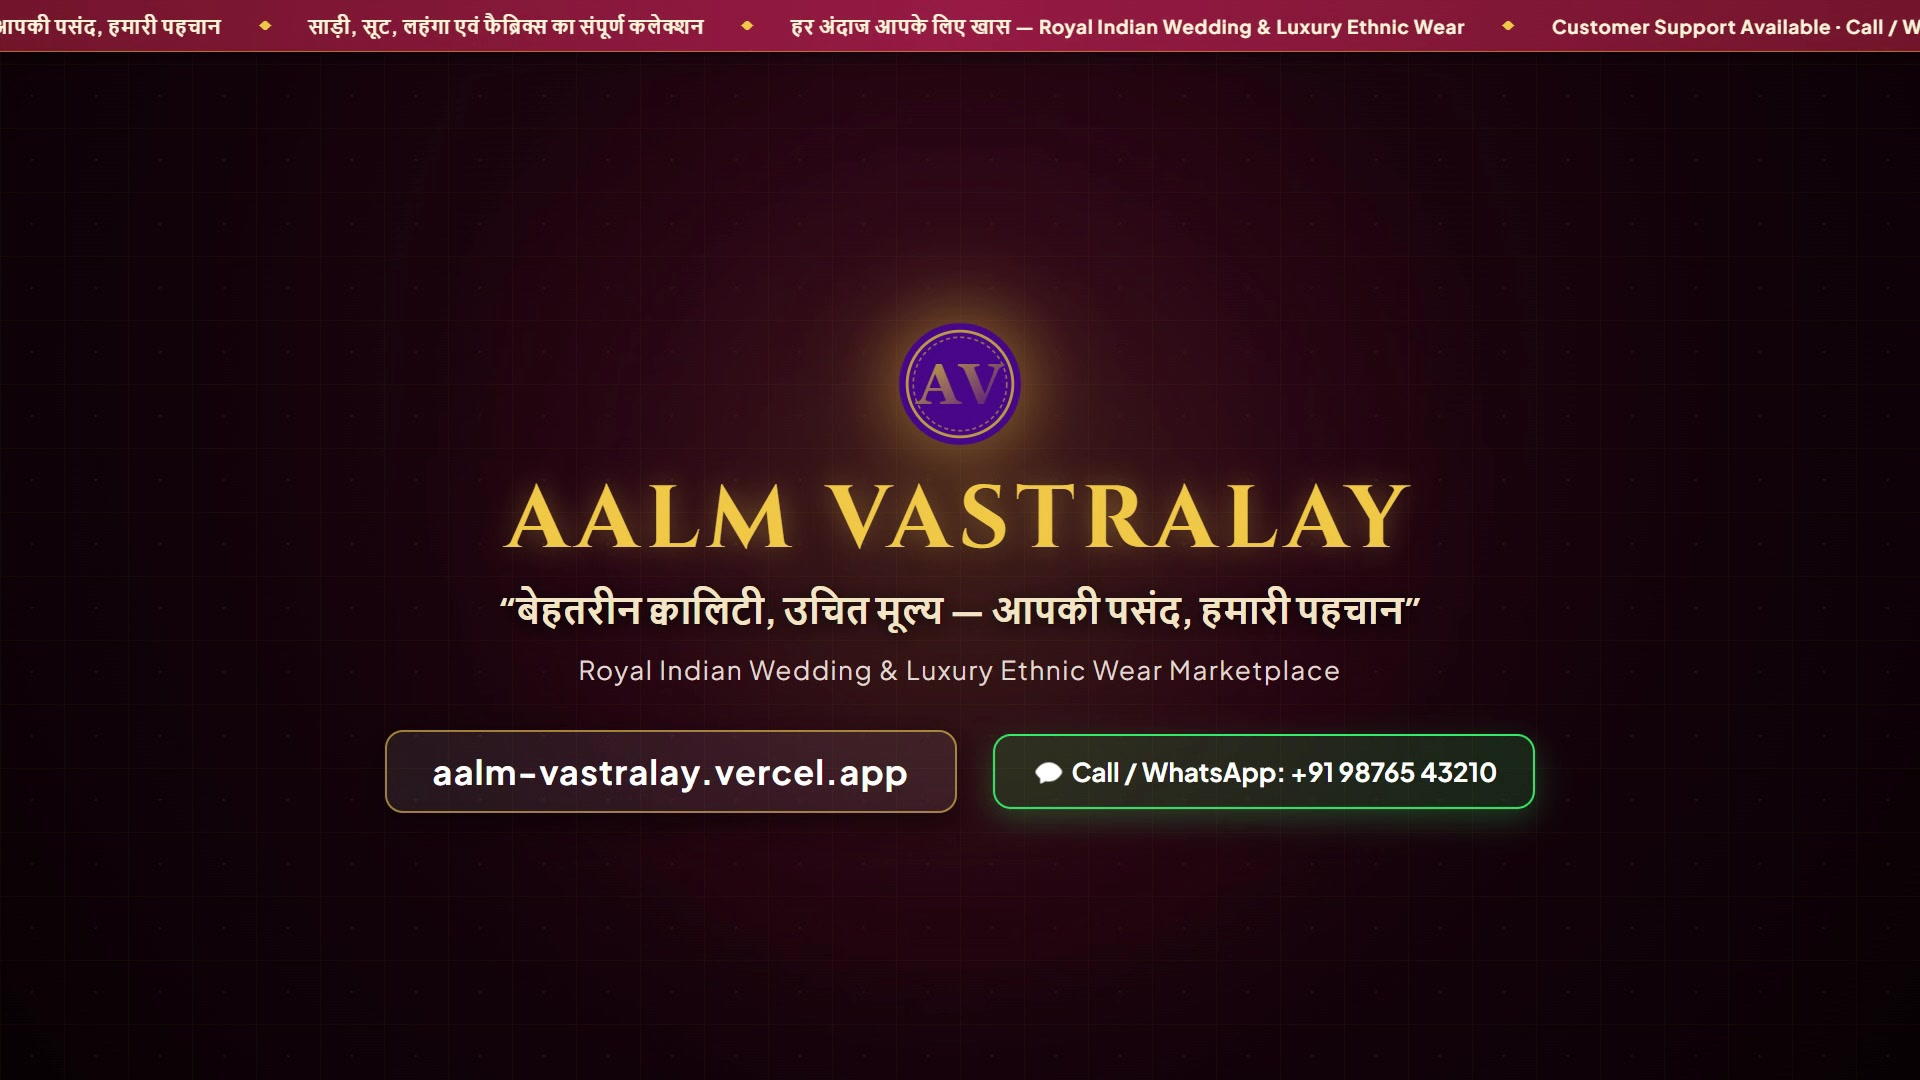
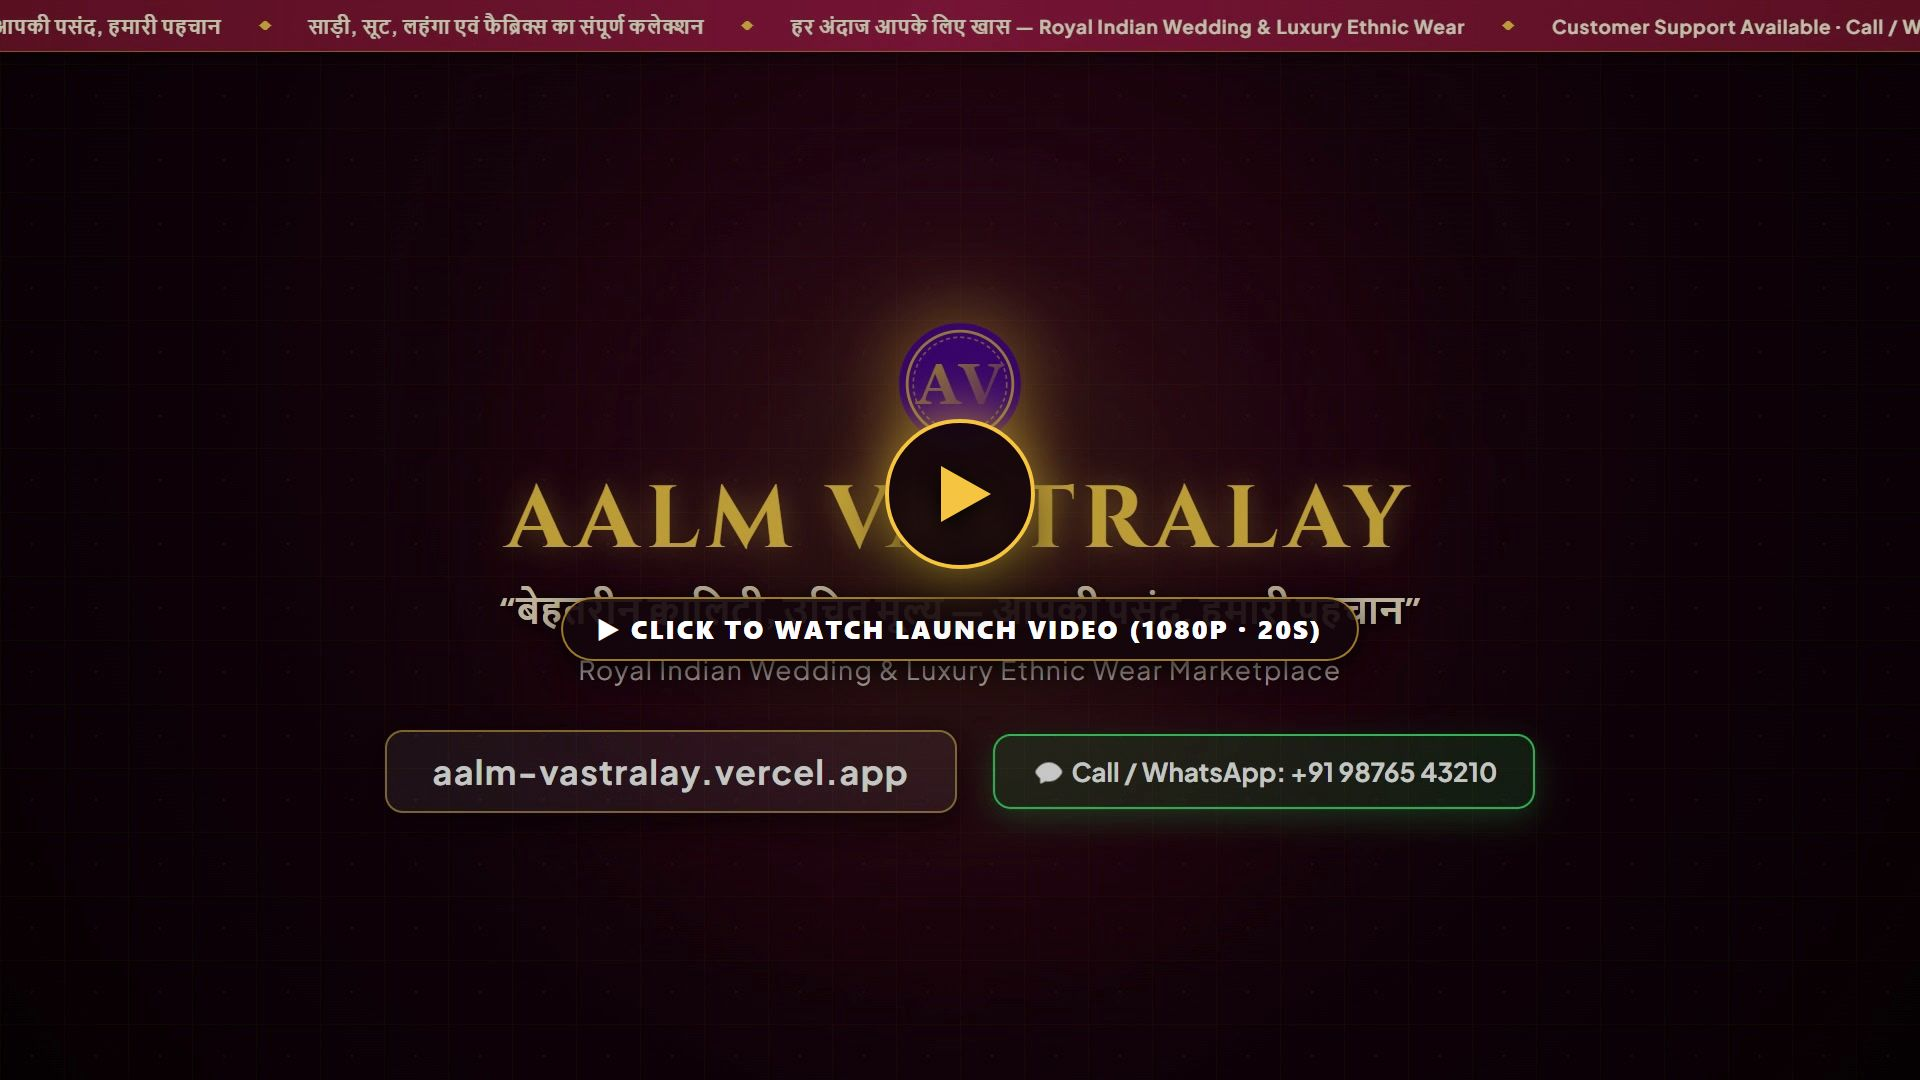
docs(readme): add playable animated video demo and play button

diff --git a/README.md b/README.md
@@ -42,17 +42,29 @@
 
 ---
 
-## 🎬 18-Second Launch Video & Interactive Demo
+## 🎬 Official Launch Video & Interactive Product Tour (1080p)
 
 <div align="center">
 
-[![Aalm Vastralay Launch Video Demo](brag-output/brag.jpg)](brag-output/brag.mp4)
+<!-- Live Playable Animated Video Preview -->
+<a href="brag-output/brag.mp4" title="Click to watch full 1080p video with audio">
+  <img src="brag-output/brag.gif" alt="Aalm Vastralay Live Launch Video Demo" width="880" style="border-radius: 12px; border: 2px solid #d4af37;" />
+</a>
 
-<br/>
+<br/><br/>
 
-**[▶ Click to Watch / Download 18s 1080p Launch Video Demo (with Audio)](brag-output/brag.mp4)**
+<a href="https://github.com/SudhirDevOps1/aalm-vastralay/raw/main/brag-output/brag.mp4">
+  <img src="https://img.shields.io/badge/▶_Click_to_Play_Full_Video_(1080p_with_Audio)-7A1F2B?style=for-the-badge&logoColor=f5c542&labelColor=1a050d" alt="Play Full 1080p Video" />
+</a>
+&nbsp;
+<a href="https://aalm-vastralay.vercel.app">
+  <img src="https://img.shields.io/badge/🌐_Visit_Live_Marketplace-D4AF37?style=for-the-badge&logoColor=1a050d&labelColor=ffffff" alt="Live Store" />
+</a>
 
-*Pure Banarasi Handloom • Sub-50ms Catalog Speed • 1-Click WhatsApp Direct Artisan Connect*
+<p align="center">
+  <strong>“बेहतरीन क्वालिटी, उचित मूल्य — आपकी पसंद, हमारी पहचान”</strong><br/>
+  <em>Royal Bridal Lehengas • Pure Banarasi Handloom • Regal Groom Sherwanis • Live WhatsApp Video Call • COD</em>
+</p>
 
 </div>
 
